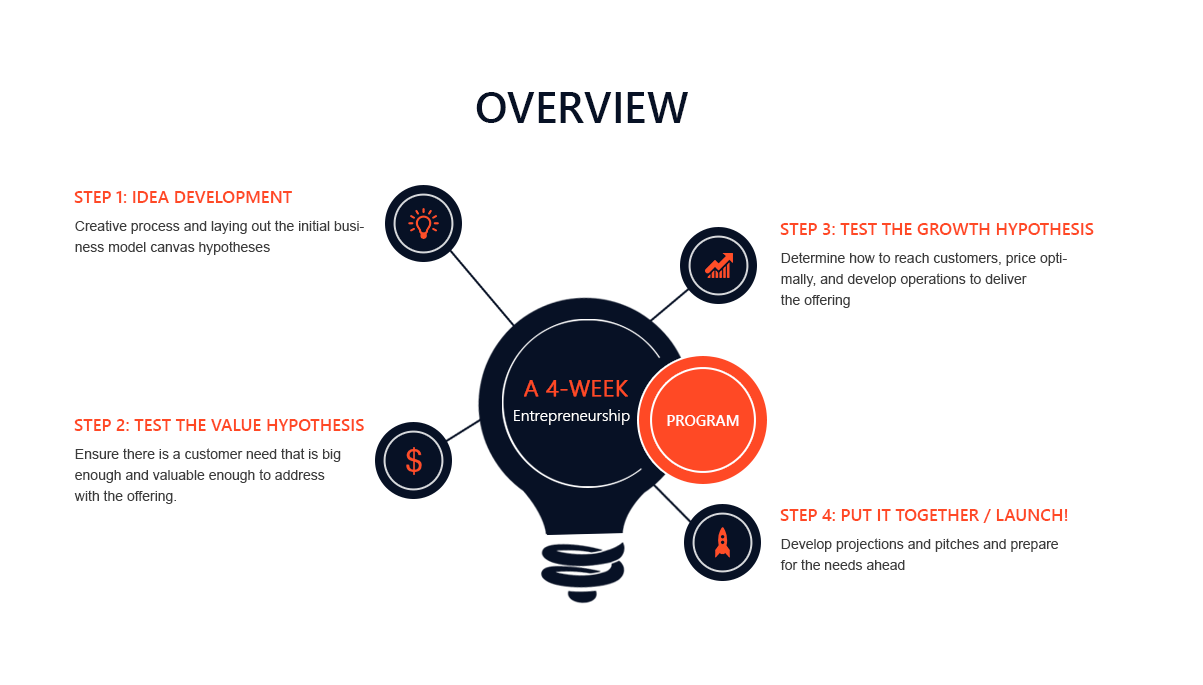
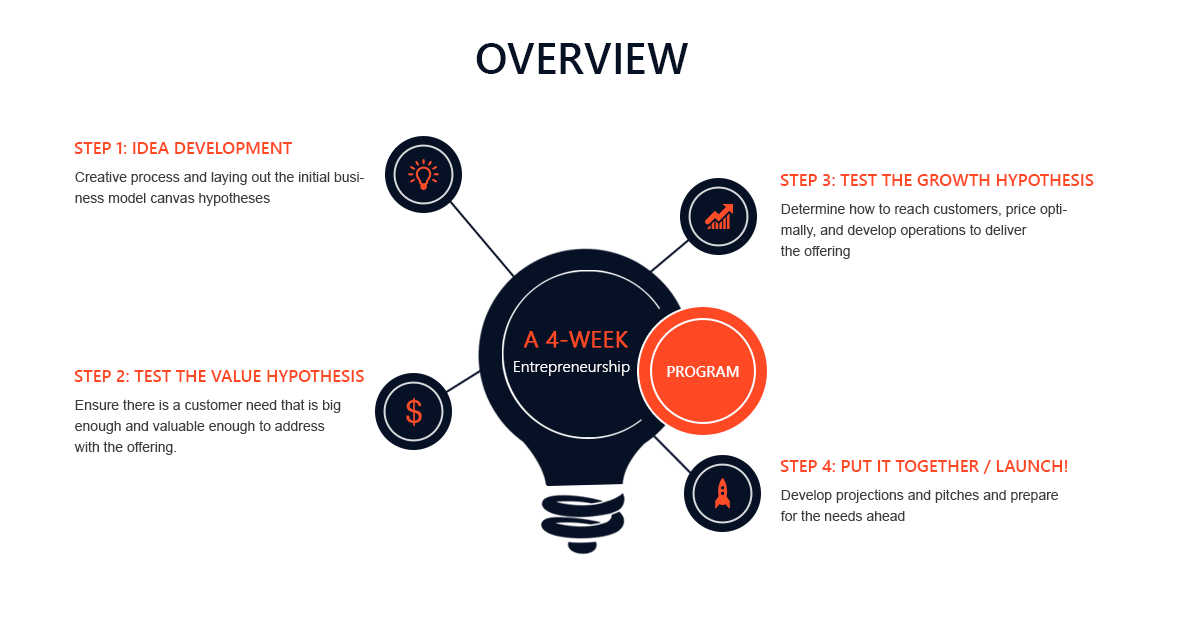
a lot of progress...
changing overview to text when small, pictures, etc..

Changed region(s): [[0.0615, 0.2091, 0.9227, 0.8962], [0.3998, 0.0597, 0.5844, 0.1792], [0.0615, 0.2091, 0.2461, 0.239]]

diff --git a/program.html b/program.html
@@ -131,6 +131,7 @@
             </div>
         </div>
     </section>
+    
     <section id="process" class="bg-gray">
         <div class="container">
             <div class="row text-center">
@@ -298,56 +299,43 @@ personally in <br><span class="text-primary">any pursuit going forward.</span></
         </div>
     </div>
 
-     <section id="apply">
-        <div class="container">
-            <div class="row">
+    <section id="apply">
+        <div class="container"> 
+                <div class="bg-gray">
+            <div class="row text-center content-row">
                 <div class="col-lg-12 text-center">
                     <h2>Apply</h2>
                     <hr class="colored">
                     <p></p>
                 </div>
-            </div>
-            <div class="row content-row">
-                <div class="col-md-4">
-                    <div class="media">
-                        <div class="pull-left">
-                            <i class="fa fa-pencil"></i>
-                        </div>
-                        <div class="media-body">
-                            <h3 class="media-heading">Application Deadline</h3>
-                            <ul>
-                                <li>Early application: January 5, 2015</li>
-                                <li>Regular application: February 15, 2015</li>
-                            </ul>
-                        </div>
+                <div class="col-md-4 col-sm-6">
+                    <div class="media-body">
+                        <i class="fa fa-pencil fa-4x inverse" id="orange"></i>
+                        <h3>Application Deadline</h3>
+                        <ul>
+                            <li>Early application: January 5, 2015</li>
+                            <li>Regular application: February 15, 2015</li>
+                        </ul>
                     </div>
                 </div>
-                <div class="col-md-4">
-                    <div class="media">
-                        <div class="pull-left">
-                            <i class="fa fa-clipboard"></i>
-                        </div>
-                        <div class="media-body">
-                            <h3 class="media-heading">Application Decisions</h3>
-                            <ul>
-                                <li>Early application round: March 1, 2015</li>
-                                <li>Regular application round: April 15, 2015</li>
-                            </ul>
-                        </div>
+                <div class="col-md-4 col-sm-6">
+                    <div class="media-body">
+                        <i class="fa fa-clipboard fa-4x inverse" id="orange"></i>
+                        <h3>Application Decisions</h3>
+                        <ul>
+                            <li>Early application round: March 1, 2015</li>
+                            <li>Regular application round: April 15, 2015</li>
+                        </ul>
                     </div>
                 </div>
-                <div class="col-md-4">
-                    <div class="media">
-                        <div class="pull-left">
-                            <i class="fa fa-rocket"></i>
-                        </div>
-                        <div class="media-body">
-                            <h3 class="media-heading">Program Dates</h3>
-                            <ul>
-                                <li>Program session dates will be announced in November</li>
-                                <li>Two sessions are again planned for 2015</li>
-                            </ul>
-                        </div>
+                <div class="col-md-4 col-sm-6">
+                    <div class="media-body">
+                        <i class="fa fa-calendar fa-4x inverse" id="orange"></i>
+                        <h3>Program Dates</h3>
+                          <ul>
+                            <li>Program session dates will be announced in November</li>
+                            <li>Two sessions are again planned for 2015</li>
+                          </ul>
                     </div>
                 </div>
             </div>

diff --git a/about-us.html b/about-us.html
@@ -281,7 +281,7 @@
             <div class="row content-row">
                 <div class="col-md-6">
                      <div class="item">
-                            <img src="assets/img/launch/team/500billaulet.png" class="img-responsive img-centered" alt="">
+                            <img src="assets/img/launch/team/billaulet.jpg" class="img-responsive img-centered" alt="">
                             <div class="caption">
                             </div>
                             <div class ="text-center"
@@ -295,7 +295,7 @@
                 </div>
                 <div class="col-md-6">
                      <div class="item">
-                            <img src="assets/img/launch/team/laurie.jpg" class="img-responsive img-centered" alt="">
+                            <img src="assets/img/launch/team/billaulet.jpg" class="img-responsive img-centered" alt="">
                             <div class="caption">
                             </div>
                             <div class ="text-center"
@@ -324,7 +324,7 @@
                 <div class="col-lg-12">
                     <div class="about-carousel">
                         <div class="item">
-                            <img src="assets/img/launch/team/laurie.jpg" class="img-responsive img-circle" alt="">
+                            <img src="assets/img/launch/team/valentin.jpg" class="img-responsive img-circle img-centered" alt="">
                             <div class="caption">
                             </div>
                             <div class ="text-center"
@@ -344,7 +344,7 @@
                             </div>
                         </div>
                         <div class="item">
-                            <img src="assets/img/launch/team/laurie.jpg" class="img-responsive img-circle" alt="">
+                            <img src="assets/img/launch/team/john.jpg" class="img-responsive img-circle img-centered" alt="">
                             <div class="caption">
                             </div>
                             <div class ="text-center"
@@ -354,7 +354,7 @@
                             <hr class="colored">
                             <p><strong>2014 Education Coordinator</strong></p>
                             <p>
-                               Sam is attending the Jerome Fisher program at University of Pennsylvania and attended Launch in summer 2013, founding Unbounded Travel.
+                               Sam is attending the Jerome Fisher program at University of Pennsylvania and attended Launch in summer 2013, co-founding Unbounded Travel.
                             </p>
                             <ul class="list-inline social">
                                     <li>

diff --git a/assets/js/starfield.js b/assets/js/starfield.js
@@ -11,6 +11,11 @@ $(document).ready(function() {
     if( $(window).width() <= 768 )
     { 
     // is mobile or tablet so don't show particles.. (too big and messes up layout)
+    $('#program').empty();
+    $('#program').append("<div class='container-fluid'> <div class='row text-center'> <img src='assets/img/launch/overview-no-text.png' class='img-responsive img-centered' alt''><p><span class='text-primary'><b>STEP 1: IDEA DEVELOPMENT</b></span></p><p>Creative process and laying out the initial business model canvas hypotheses</p><br><p><span class='text-primary'><b>STEP 2: TEST THE VALUE HYPOTHESIS</b></span></p><p>Ensure there is a customer need that is big enough and valuable enough to address with the offering</p><br><p><span class='text-primary'><b>STEP 3: TEST THE GROWTH HYPOTHESIS</b></span></p><p>Determine how to reach customers, price optimally, and develop operations to deliver the offering</p><br><p><span class='text-primary'><b>STEP 4: PUT IT TOGETHER / LAUNCH</b></span></p><p>Develop projections and pitches and prepare for the needs ahead</p> </div> </div>");    
+
+
+    
     }
     else
     {
@@ -36,9 +41,14 @@ $(window).resize(function() {
     particles_on = false;
     // is mobile so don't show particles..
     $('#starfield').particleground('destroy');
+    $('#program').empty();
+    $('#program').append("<div class='container-fluid'> <div class='row text-center'> <img src='assets/img/launch/overview-no-text.png' class='img-responsive img-centered' alt''><p><span class='text-primary'><b>STEP 1: IDEA DEVELOPMENT</b></span></p><p>Creative process and laying out the initial business model canvas hypotheses</p><br><p><span class='text-primary'><b>STEP 2: TEST THE VALUE HYPOTHESIS</b></span></p><p>Ensure there is a customer need that is big enough and valuable enough to address with the offering</p><br><p><span class='text-primary'><b>STEP 3: TEST THE GROWTH HYPOTHESIS</b></span></p><p>Determine how to reach customers, price optimally, and develop operations to deliver the offering</p><br><p><span class='text-primary'><b>STEP 4: PUT IT TOGETHER / LAUNCH</b></span></p><p>Develop projections and pitches and prepare for the needs ahead</p> </div> </div>");    
     }
     else
     {
+        $('#program').empty();
+        $('#program').append("<div class='container-fluid'> <div class='row text-center'> <img src='assets/img/launch/overview.png' class='img-responsive img-centered' alt''> </div> </div>");
+
         if(!particles_on)
         {
             $('#starfield').particleground({

diff --git a/index.html b/index.html
@@ -82,6 +82,9 @@
                         <a href="#page-top"></a>
                     </li>
                     <li>
+                        <a href="#about-us">Home</a>
+                    </li>
+                    <li>
                         <a href="program.html">Program</a>
                     </li>
                     <li>
@@ -133,9 +136,24 @@
         </div>
     </section>
 
-    <div class="row text-center">
+    <section id="program">
+        <div class="container-fluid"> 
+            <div class="row text-center">
                  <img src="assets/img/launch/overview.png" class="img-responsive img-centered" alt="">
-    </div>
+                 <p><span class="text-primary"><b>STEP 1: IDEA DEVELOPMENT</b></span></p>
+                 <p>Creative process and laying out the initial business model canvas hypotheses</p>
+                 <br>
+                 <p><span class="text-primary"><b>STEP 2: TEST THE VALUE HYPOTHESIS</b></span></p>
+                 <p>Ensure there is a customer need that is big enough and valuable enough to address with the offering</p>
+                 <br>
+                 <p><span class="text-primary"><b>STEP 3: TEST THE GROWTH HYPOTHESIS</b></span></p>
+                 <p>Determine how to reach customers, price optimally, and develop operations to deliver the offering</p>
+                 <br>
+                 <p><span class="text-primary"><b>STEP 4: PUT IT TOGETHER / LAUNCH</b></span></p>
+                 <p>Develop projections and pitches and prepare for the needs ahead</p>
+            </div>
+        </div>
+    </section>
 
     <section id="work" class="bg-gray">
         <div class="container text-center">

diff --git a/assets/css/vitality-orange.css b/assets/css/vitality-orange.css
@@ -127,6 +127,10 @@ hr.colored {
     color: #f36f22;
 }
 
+#orange {
+    color: #f36f22;
+}
+
 .navbar-default .navbar-nav>.active>a,
 .navbar-default .navbar-nav>.active>a:hover,
 .navbar-default .navbar-nav>.active>a:focus,
